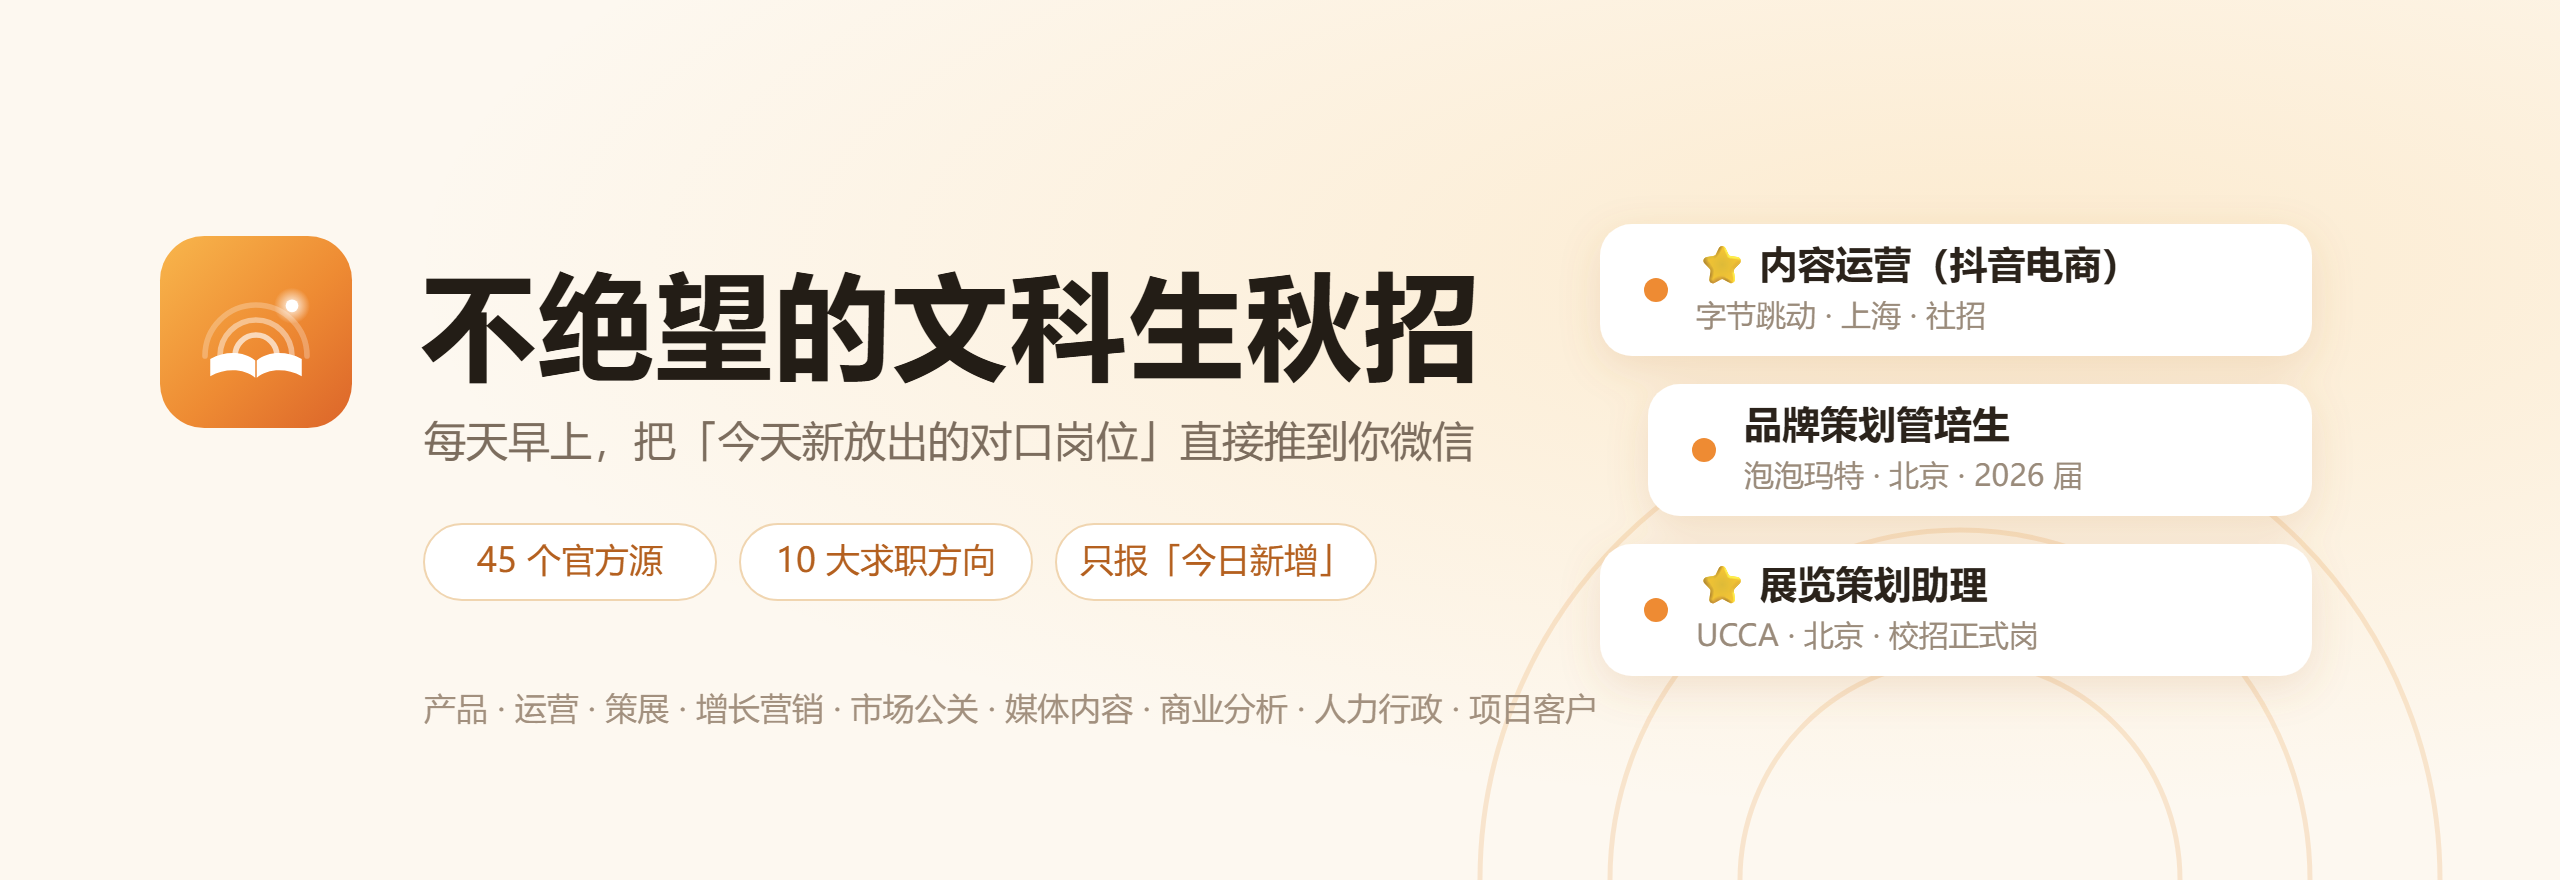
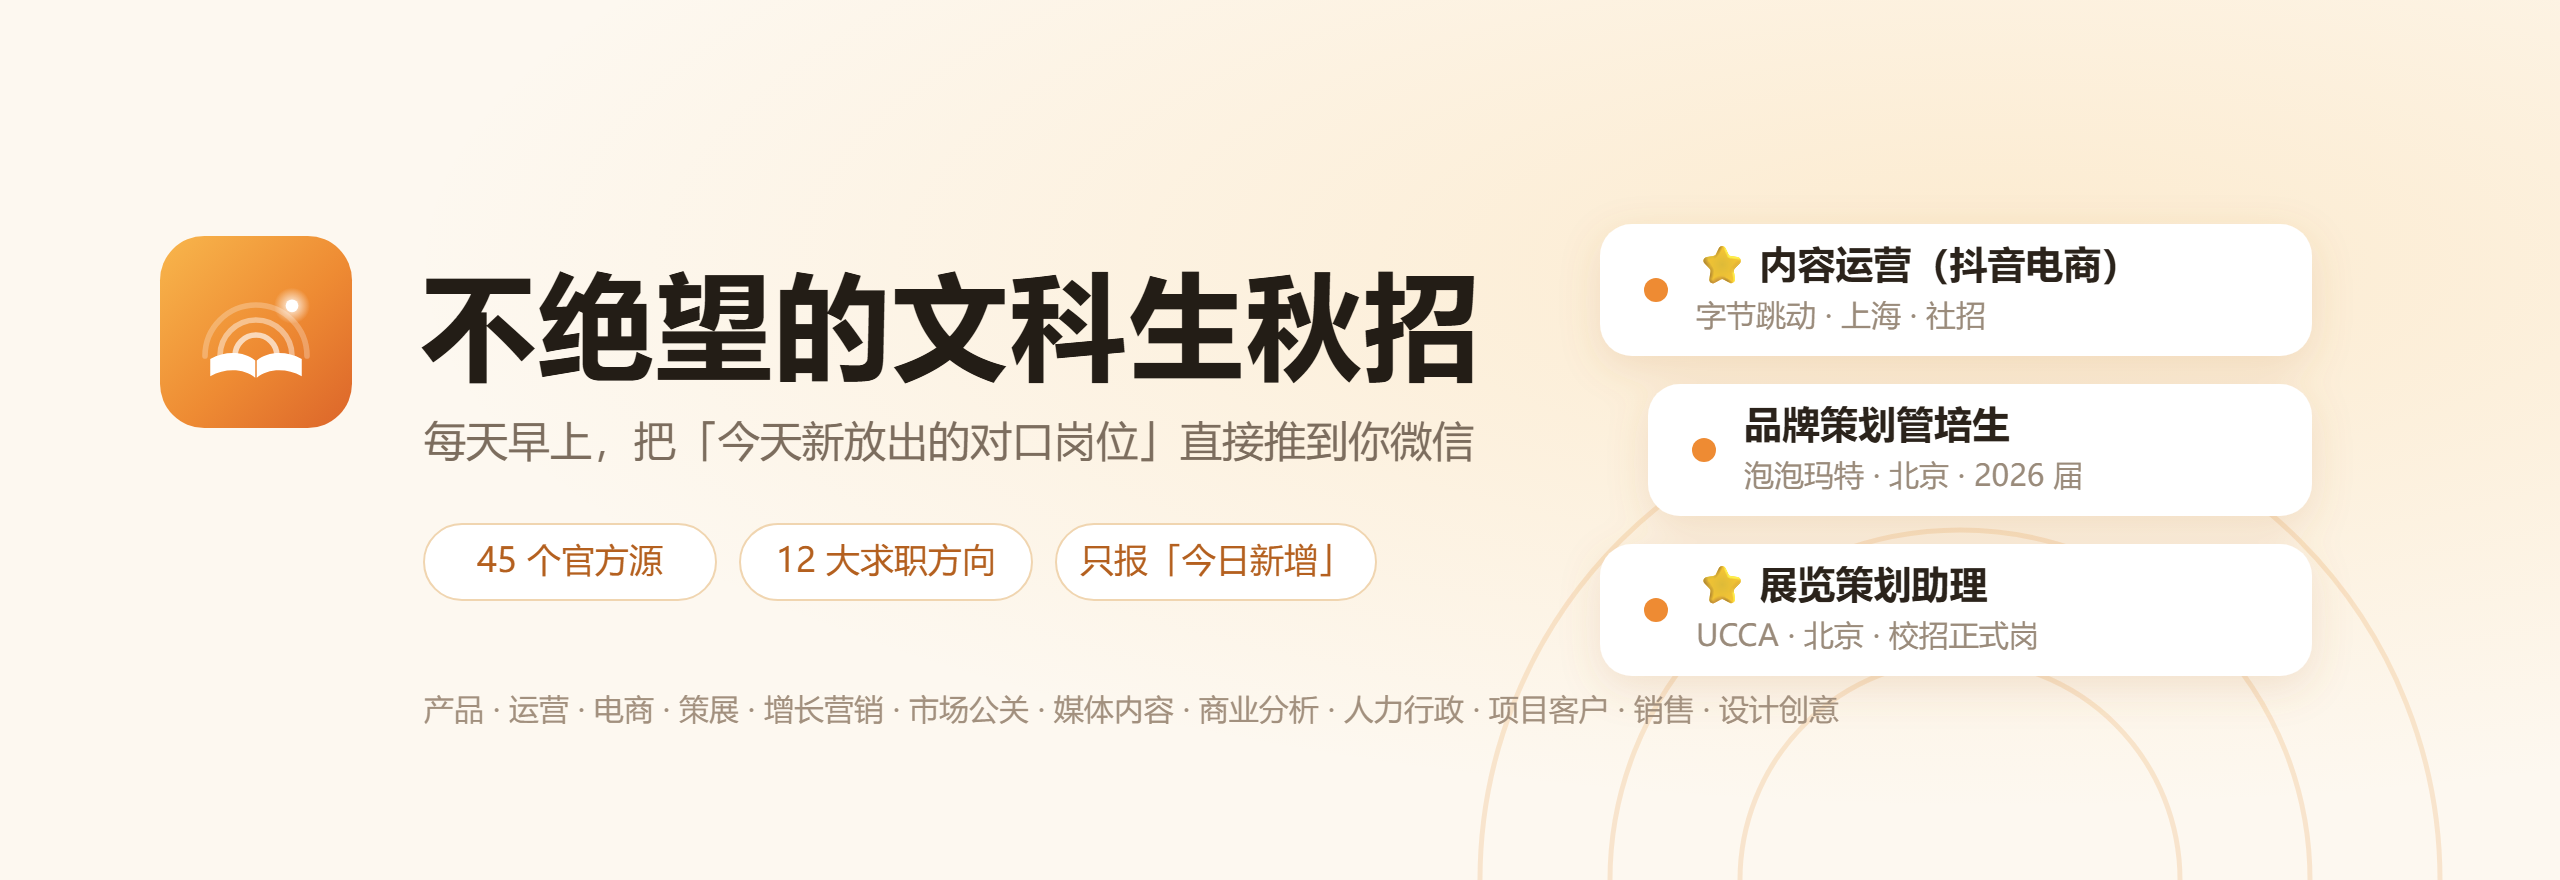
docs: README/头图同步 12 个方向 + 不限城市说明

Changed region(s): [[0.1562, 0.767, 0.7188, 0.8284]]

diff --git a/README.md b/README.md
@@ -10,8 +10,9 @@
 </p>
 
 > **专门给和我一样绝望.jpg的文科生们的秋招自动岗位推送工具**：接入 30+ 家公司的 45 个官方招聘源头，
-> 自动抓取**产品、运营、电商、策展、增长营销、市场公关、媒体内容、商业分析、人力行政、项目客户**
-> 十大类非技术岗的**社招**与 **2026 / 2027 届秋招**新岗位，**每天早上 7:30 前后微信自动推送**。
+> 自动抓取**产品、运营、电商、策展、增长营销、市场公关、媒体内容、商业分析、人力行政、项目客户、销售、设计创意**
+> 十二类非技术岗的**社招**与 **2026 / 2027 届秋招**新岗位，**每天早上 7:30 前后微信自动推送**。
+> 默认**不限城市**（想只看某几个城市，改一行配置即可）。
 
 <p align="center">
   <img src="assets/push-preview.png" alt="微信推送效果预览" width="88%">
@@ -138,9 +139,13 @@ PYTHONUTF8=1 python main.py          # 之后每日增量
 | 商业分析 | 商业分析 / 经营分析 / 数据分析 / 战略 / 咨询 / 行业研究 / 用户研究 … |
 | 人力行政 | 人力资源 / HRBP / 招聘 / 培训 / 组织发展 / 薪酬 / 雇主品牌 / 行政 / 文秘 … |
 | 项目客户 | 项目管理 / 项目经理 / PMO / 客户成功 / 客户经理 / 商务合作 … |
+| 销售 | 大客户销售 / 商务拓展 / 销售管培 / 销售运营 / 区域经理 / 渠道经理 / KA 经理 … |
+| 设计创意 | 视觉设计 / 平面设计 / 创意策划 / 包装设计 / 品牌设计 / 广告创意 / 展陈设计 … |
 
-自动排掉实习岗和要求 3 年以上经验的社招岗；不想看的方向删掉即可，也可在
-[`user_profile.py`](user_profile.py) 加自己的方向。
+自动排掉实习岗、技术岗（工程师/算法/研发等）和要求 3 年以上经验的社招岗。
+销售只收偏商务/管培的白领线（不收门店督导、店长等一线零售岗）；设计只收商业向创意岗
+（不收游戏原画/3D/特效这类需美术功底+作品集的岗）。
+不想看的方向删掉即可，也可在 [`user_profile.py`](user_profile.py) 加自己的方向。
 
 ## 四、如果它帮到你了
 
